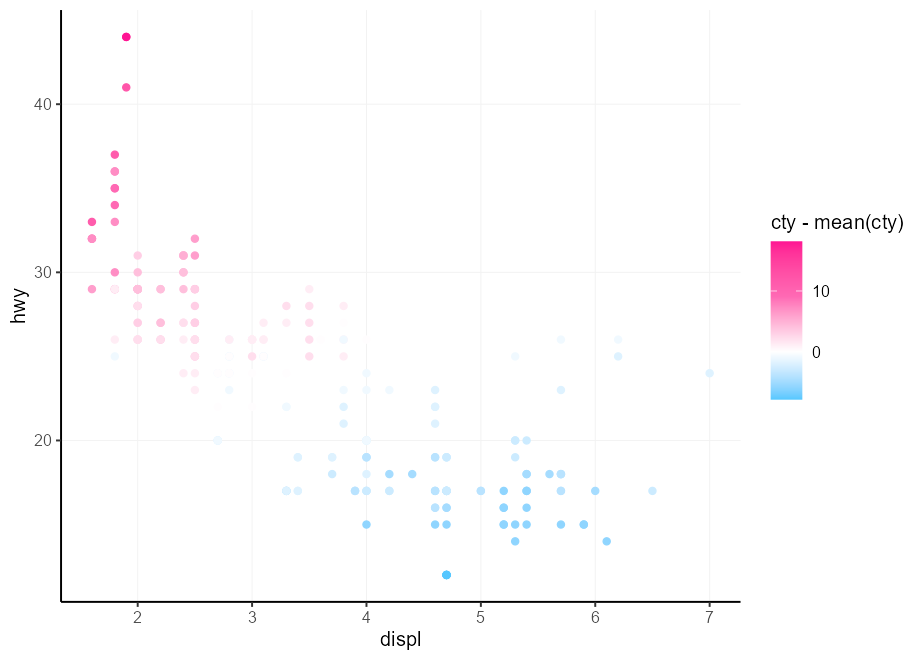
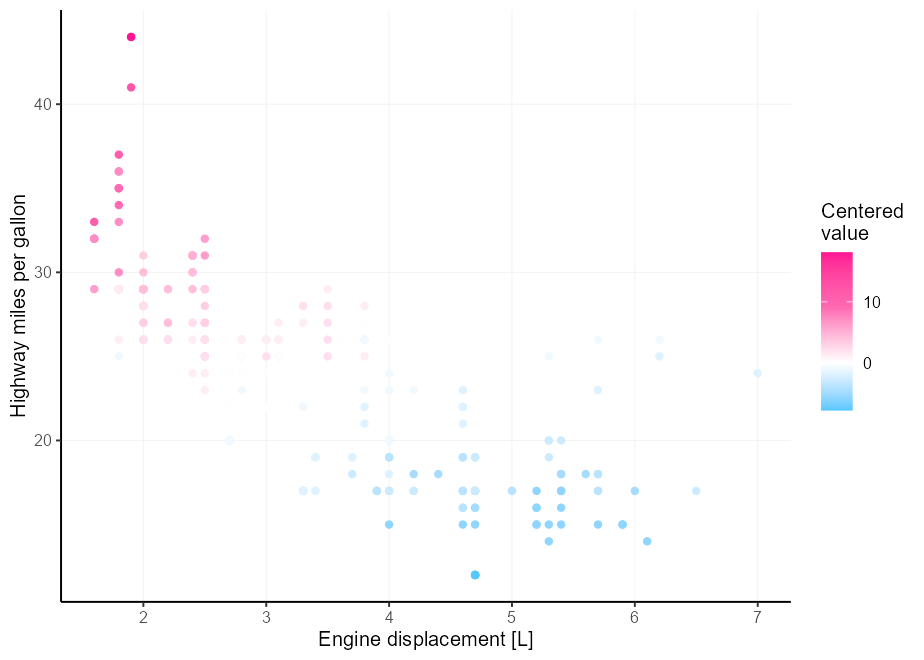
Add midpoint example

diff --git a/README.md b/README.md
@@ -157,8 +157,15 @@ league with `scales::rescale_mid()`.
 ``` r
 my_palette <- c("dodgerblue", "deepskyblue", "white", "hotpink", "deeppink")
 
-ggplot(mpg, aes(displ, hwy, colour = cty - mean(cty))) +
+p <- ggplot(mpg, aes(displ, hwy, colour = cty - mean(cty))) +
   geom_point() +
+  labs(
+    x = "Engine displacement [L]",
+    y = "Highway miles per gallon",
+    colour = "Centered\nvalue"
+  )
+
+p + 
   scale_colour_gradientn(
     colours = my_palette, 
     rescaler = ~ rescale_mid(.x, mid = 0)
@@ -167,6 +174,18 @@ ggplot(mpg, aes(displ, hwy, colour = cty - mean(cty))) +
 
 <img src="man/figures/README-divergent_midpoint-1.png" width="80%" style="display: block; margin: auto;" />
 
+An alternative is to simply center the limits on x. We can do that by
+providing a function to the scale’s limits.
+
+``` r
+p +
+  scale_colour_gradientn(
+    colours = my_palette, 
+    limits = ~ c(-1, 1) * max(abs(.x))
+  )
+```
+
+<img src="man/figures/README-centered_midpoint-1.png" width="80%" style="display: block; margin: auto;" />
 <details style="margin-bottom:10px;">
 <summary>
 Session info
